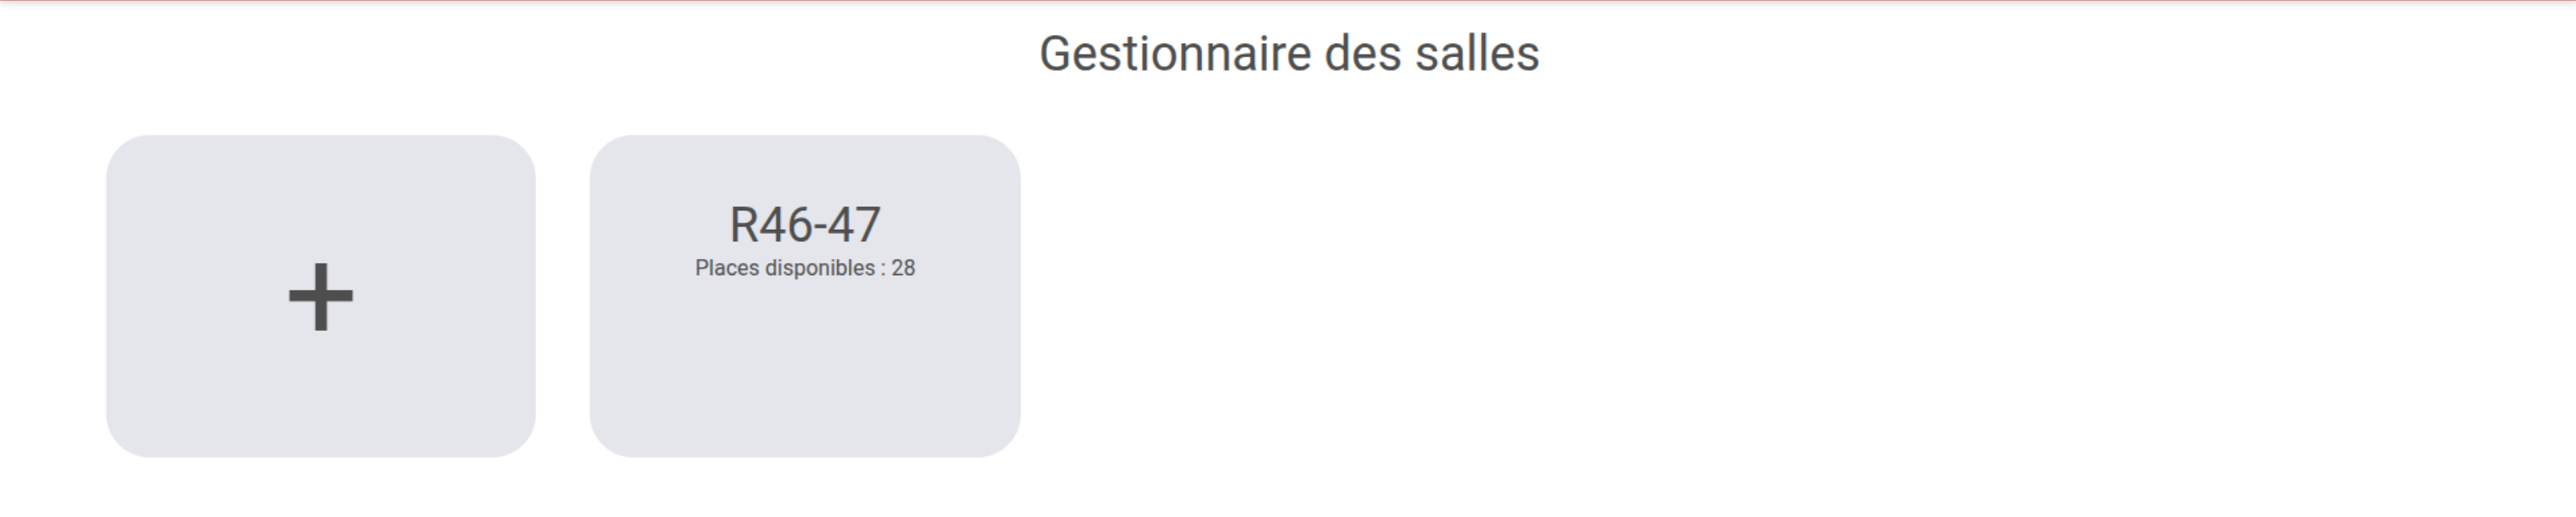
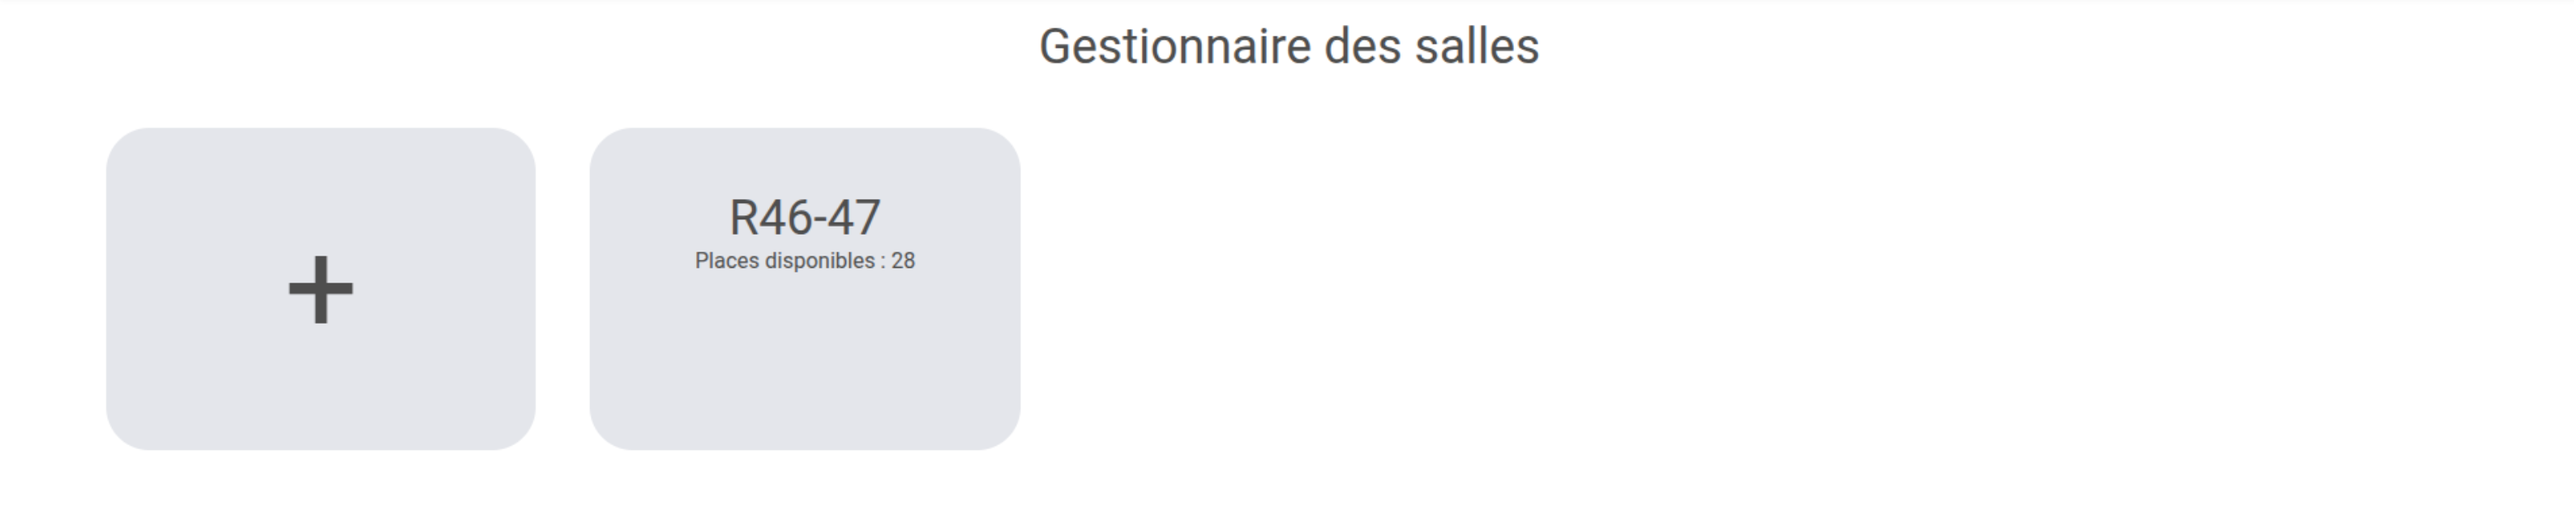
Feat: Making visual for ProfilePage

diff --git a/frontend/src/pages/ProfilePage.tsx b/frontend/src/pages/ProfilePage.tsx
@@ -1,70 +1,155 @@
 import { useEffect, useState } from 'react'
 
-interface ChannelVideo {
-  id: string
-  title: string
-}
-
-async function getLastFantaVid(signal: AbortSignal): Promise<ChannelVideo> {
-  // Vite relaie cette URL vers la chaîne pour éviter le blocage CORS du navigateur.
-  let response: Response | undefined
-  // Le relais peut recevoir une erreur temporaire de YouTube : réessayer deux fois.
-  for (let attempt = 0; attempt < 3; attempt++) {
-    signal.throwIfAborted()
-    response = await fetch('/youtube-channel-videos', { signal })
-    if (![502, 503, 504].includes(response.status) || attempt === 2) break
-    await response.body?.cancel()
-    await new Promise((resolve) => setTimeout(resolve, 1000 * (attempt + 1)))
-  }
-  if (!response?.ok) {
-    throw new Error(`Le relais vers YouTube est indisponible (HTTP ${response?.status}). Réessayez dans quelques instants.`)
-  }
-  // Le flux Atom fournit les publications sans charger la page de consentement.
-  const xml = await response.text()
-  const feed = new DOMParser().parseFromString(xml, 'application/xml')
-  if (feed.querySelector('parsererror')) throw new Error('Le flux YouTube reçu est invalide.')
-  const entries = Array.from(feed.getElementsByTagNameNS('http://www.w3.org/2005/Atom', 'entry'))
-  entries.sort((a, b) => {
-    const date = (entry: Element) => Date.parse(entry.getElementsByTagNameNS('http://www.w3.org/2005/Atom', 'published')[0]?.textContent ?? '') || 0
-    return date(b) - date(a)
-  })
-  const entry = entries[0]
-  const id = entry?.getElementsByTagNameNS('http://www.youtube.com/xml/schemas/2015', 'videoId')[0]?.textContent
-  if (!id) throw new Error('Aucune vidéo trouvée dans le flux de la chaîne.')
-  return {
-    id,
-    title: entry.getElementsByTagNameNS('http://www.w3.org/2005/Atom', 'title')[0]?.textContent || 'Dernière vidéo AlphaTeam',
-  }
-}
 
 function ProfilePage() {
-  const [video, setVideo] = useState<ChannelVideo | null>(null)
-  const [error, setError] = useState('')
-
-  useEffect(() => {
-    const controller = new AbortController()
-    getLastFantaVid(controller.signal)
-      .then((result) => { if (!controller.signal.aborted) setVideo(result) })
-      .catch((err: unknown) => {
-        if (!controller.signal.aborted) setError(err instanceof Error ? err.message : 'Erreur de chargement de la vidéo.')
-      })
-    return () => controller.abort()
-  }, [])
-
   return (
-    <div>
-      <h1 className='text-4xl text-center pt-5 pb-10 text-[#4D4D4D]'>Profil</h1>
-      {error && <p role="alert" className="text-center text-red-600">{error}</p>}
-      {!video && !error && <p role="status" className="text-center">Chargement de la dernière vidéo…</p>}
-      {video && (
-        <iframe
-          className="w-full aspect-video rounded-md"
-          src={`https://www.youtube.com/embed/${video.id}?autoplay=1&mute=1`}
-          title={video.title}
-          allow="autoplay; encrypted-media; picture-in-picture"
-          allowFullScreen
-        />
-      )}
+    <div className='bg-gray-200'>
+      <div className="relative overflow-hidden">
+        <img src="/bg-profile.jpg" className="h-full w-full object-cover blur-sm scale-110" alt="Fond flouté"/>
+      </div>
+
+      <div className='flex flex-col items-center gap-10 -mt-[5%] z-10 relative'>
+        <div className='flex items-center justify-center bg-gray-200 rounded-full w-60 h-60'>
+          <img src="pp.jpg" alt="" className='rounded-full h-50 h-50' />
+        </div>
+        <div className='flex gap-5 flex-col text-center'>
+          <h2 className='text-6xl font-bold'>Boucher Natacha</h2>
+          <h3 className='text-3xl'>nboucher1</h3>
+        </div>
+      </div>
+
+      <div className='grid grid-cols-[minmax(0,1fr)_2px_minmax(0,1fr)] gap-x-2 px-2 py-20 sm:gap-x-20 sm:px-5 xl:px-20'>
+        <div className='min-w-0'>
+          <h4 className='text-xl sm:text-4xl mb-5'>Informations</h4>
+          <div className='overflow-x-auto rounded-xl border-2 border-gray-500'>
+            <table className='w-full wrap-anywhere bg-white [&_th]:text-left [&_th]:px-1 sm:[&_th]:px-3 xl:[&_th]:px-10 [&_th]:py-8 [&_td]:px-1 sm:[&_td]:px-3 xl:[&_td]:px-10 [&_td]:py-8'>
+              <tbody className="divide-y divide-gray-300">
+                <tr>
+                  <th>
+                    <p>Prenom</p>
+                  </th>
+                  <td>
+                    <input type="text" className='h-10 w-50 border-2 border-gray-500 rounded-md px-3 hover:bg-gray-100'/>
+                  </td>
+                </tr>
+                <tr>
+                  <th>
+                    <p>Nom</p>
+                  </th>
+                  <td>
+                    <input type="text" className='h-10 w-50 border-2 border-gray-500 rounded-md px-3 hover:bg-gray-100'/>
+                  </td>
+                </tr>
+                <tr>
+                  <th>
+                    <p>Status éducatif</p>
+                  </th>
+                  <td>
+                    <p>Etudiant</p>
+                  </td>
+                </tr>
+                <tr>
+                  <th>
+                    <p>Email</p>
+                  </th>
+                  <td>
+                    <p>bnatacha@gmail.com</p>
+                  </td>
+                  <td>
+                    <button className='p-2 border-2 border-gray-500 rounded-md hover:bg-gray-100'>Modifier</button>
+                  </td>
+                </tr>
+                <tr>
+                  <th>
+                    <p>Téléphone</p>
+                  </th>
+                  <td>
+                    <p>07 66 28 11 83</p>
+                  </td>
+                  <td>
+                    <button className='p-2 border-2 border-gray-500 rounded-md hover:bg-gray-100'>Modifier</button>
+                  </td>
+                </tr>
+                <tr>
+                  <th>
+                    <p>Mot de passe</p>
+                  </th>
+                  <td>
+                    <button className='p-2 border-2 border-gray-500 rounded-md hover:bg-gray-100'>Modifier mon mot de passe</button>
+                  </td>
+                </tr>
+              </tbody>
+            </table>
+          </div>
+        </div>
+
+        <div aria-hidden="true" className='bg-gray-700' />
+
+        <div className='min-w-0'>
+          <h4 className='text-xl sm:text-4xl mb-5'>Paramètres</h4>
+          <div className='overflow-x-auto rounded-xl border-2 border-gray-500'>
+            <table className='w-full wrap-anywhere bg-white [&_th]:text-left [&_th]:px-1 sm:[&_th]:px-3 xl:[&_th]:px-10 [&_th]:py-8 [&_td]:px-1 sm:[&_td]:px-3 xl:[&_td]:px-10 [&_td]:py-8'>
+              <tbody className="divide-y divide-gray-300">
+                <tr>
+                  <th>
+                    <p>Thème</p>
+                  </th>
+                  <td>
+                    <select name="" id="" className='py-2 rounded-md border-2 border-gray-500 hover:bg-gray-100'>
+                      <option value="">Clair</option>
+                      <option value="">Sombre</option>
+                      <option value="">Système</option>
+                    </select>
+                  </td>
+                </tr>
+                <tr>
+                  <th>
+                    <p>Langage</p>
+                  </th>
+                  <td>
+                    <select name="" id="" className='py-2 rounded-md border-2 border-gray-500 hover:bg-gray-100'>
+                      <option value="">Français</option>
+                      <option value="">Español</option>
+                      <option value="">English</option>
+                      <option value="">Português</option>
+                      <option value="">Chinois</option>
+                      <option value="">Hindi</option>
+                    </select>
+                  </td>
+                </tr>
+                <tr>
+                  <th>
+                    <p>Gestion de mes données</p>
+                  </th>
+                  <td>
+                    <button className='p-2 border-2 border-gray-500 rounded-md hover:bg-gray-100'>Supprimer mes données</button>
+                  </td>
+                </tr>
+                <tr>
+                  <th>
+                    <p>Supprimer mon compte</p>
+                  </th>
+                  <td>
+                    <button className='p-2 border-2 border-gray-500 rounded-md hover:bg-gray-100'>Supprimer mon compte</button>
+                  </td>
+                </tr>
+                <tr>
+                  <th>
+                    <p>Contribuez à nos études</p>
+                  </th>
+                  <td>
+                    <a href="https://paypal.me/geoffreyrigal5" target="_blank" rel="noopener noreferrer" className="inline-block p-2 border-2 border-gray-500 rounded-md hover:bg-gray-100">Faire un don</a>
+                  </td>
+                </tr>
+              </tbody>
+            </table>
+          </div>
+        </div>
+      </div>
+
+      <div className='flex justify-center pb-10'>
+        <button className='p-2 border-2 border-gray-500 rounded-md bg-white hover:bg-gray-100'>Sauvegarder les modifications</button>
+      </div>
     </div>
   )
 }

diff --git a/frontend/src/pages/RoomPage.tsx b/frontend/src/pages/RoomPage.tsx
@@ -316,16 +316,18 @@ function RoomPage() {
                   </div>
                 </div>
 
-                <div className='flex-2 border-1 border-gray-300 rounded-md pt-3 overflow-auto'>
-                  <h2 className='text-center text-2xl'>Aperçu du plan de classe <br /><span className='text-lg'>(les modifications se font à l'étape suivante)</span></h2>
-                  <div className='flex flex-col gap-2 p-10 w-max mx-auto'>
-                    {Array.from({ length: Math.max(0, Number(planX)) }, (_, column) => (
+                <div className='flex flex-2 flex-col min-w-0 min-h-0 border-1 border-gray-300 rounded-md pt-3'>
+                  <h2 className='shrink-0 text-center text-2xl'>Aperçu du plan de classe <br /><span className='text-lg'>(les modifications se font à l'étape suivante)</span></h2>
+                  <div className='flex-1 min-h-0 overflow-auto'>
+                    <div className='flex flex-col gap-2 p-10 w-max mx-auto'>
+                      {Array.from({ length: Math.max(0, Number(planX)) }, (_, column) => (
                         <div key={column} className='flex gap-2'>
                           {Array.from({ length: Math.max(0, Number(planY)) }, (_, row) => (
                               <div key={row} className="shrink-0 w-10 h-10 group flex items-center justify-center rounded-md bg-gray-200"></div>
                           ))}
                         </div>
-                    ))}
+                      ))}
+                    </div>
                   </div>
                 </div>
               </div>

diff --git a/frontend/src/components/Header.tsx b/frontend/src/components/Header.tsx
@@ -32,9 +32,6 @@ function Header() {
               <li>
                 <Link to="/Profile" className="block px-4 py-2 hover:bg-gray-100">Mon Profil</Link>
               </li>
-              <li>
-                <Link to="/Settings" className="block px-4 py-2 hover:bg-gray-100">Paramètres</Link>
-              </li>
               <hr className="border-gray-200" />
               <li>
                 <button className="w-full text-left px-4 py-2 hover:bg-gray-100 text-red-600">

diff --git a/frontend/src/pages/ClassDispositionPage.tsx b/frontend/src/pages/ClassDispositionPage.tsx
@@ -143,7 +143,6 @@ function ClassDispositionPage() {
         }
         return updated
       })
-      // Conserver la sélection pour pouvoir ajouter plusieurs aménagements de suite.
       e.target.value = ''
       return
     }

diff --git a/frontend/src/types/excel-column-name.d.ts b/frontend/src/types/excel-column-name.d.ts
@@ -1,0 +1,4 @@
+declare module 'excel-column-name' {
+  export function intToExcelCol(column: number): string
+  export function excelColToInt(name: string): number
+}
